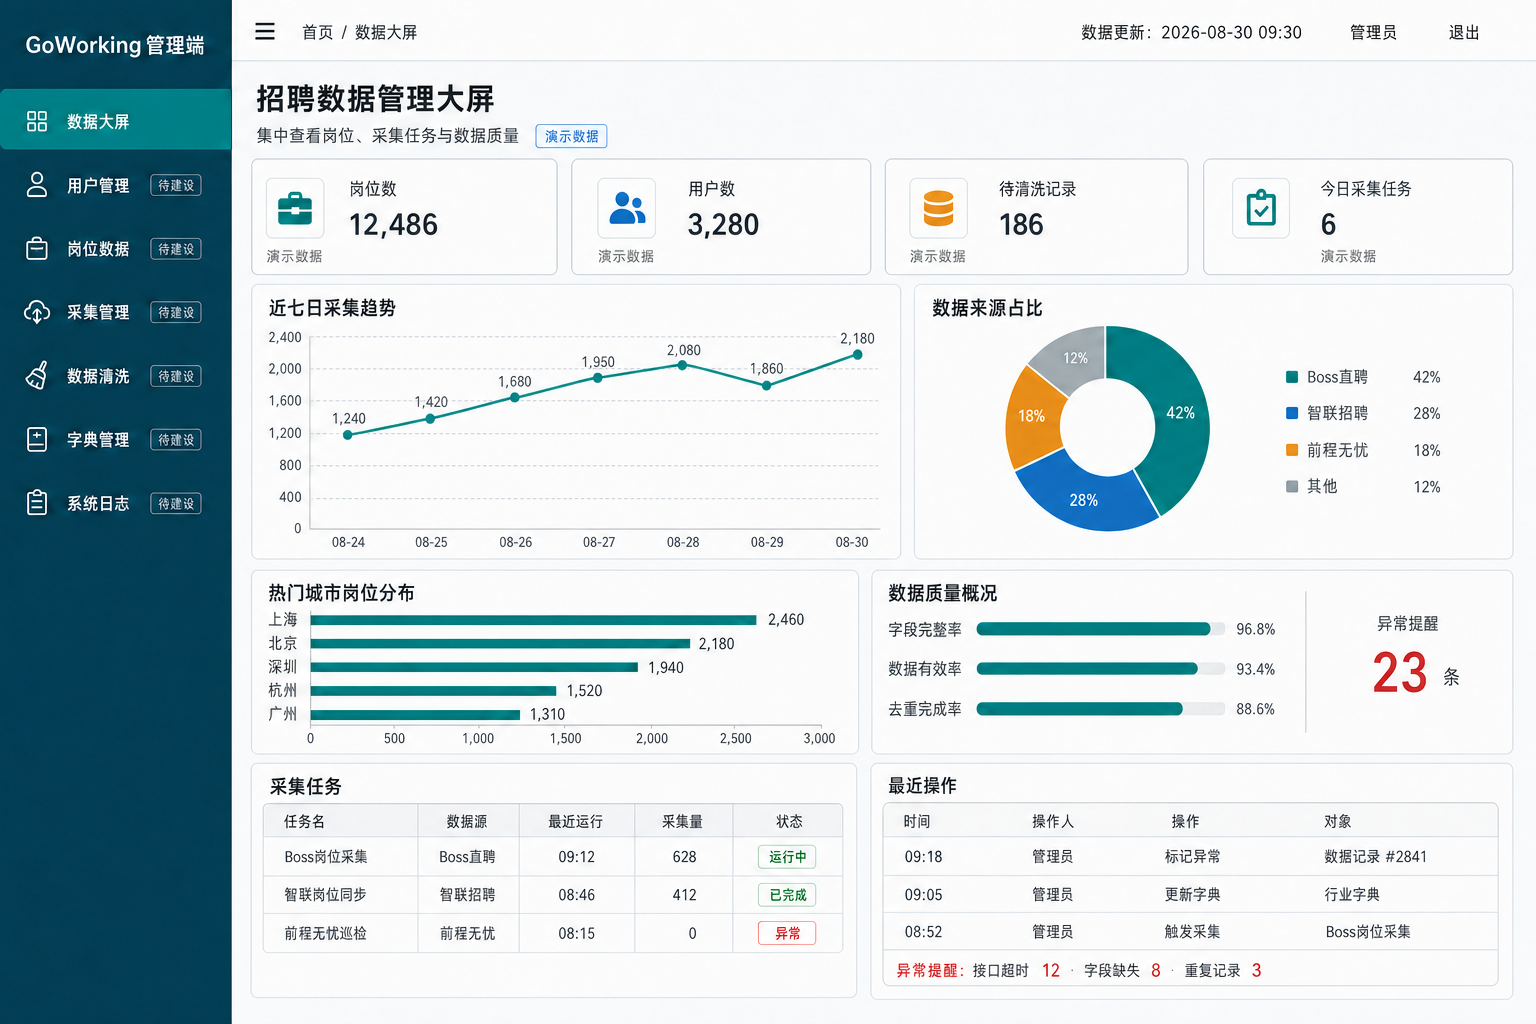
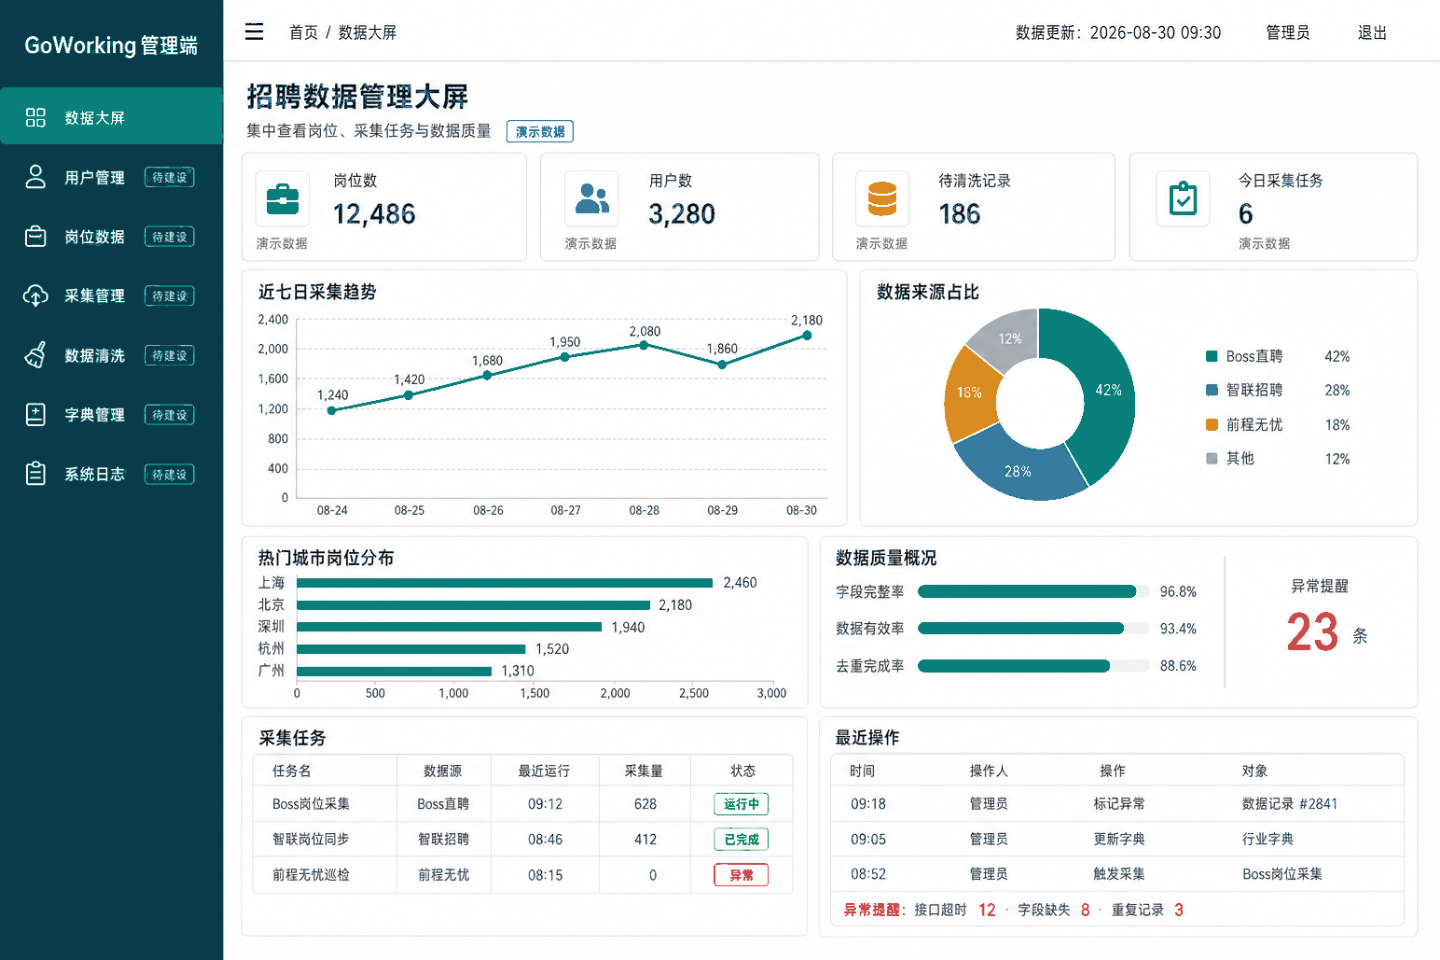
fix: normalize admin interface concepts

diff --git a/docs/design-concepts/admin-fidelity-ledger.md b/docs/design-concepts/admin-fidelity-ledger.md
@@ -2,9 +2,9 @@
 
 | Area | Accepted concept evidence | Implementation evidence | Fix or deviation |
 | --- | --- | --- | --- |
-| Login composition | Accepted by the user: 58/42 deep-teal visual and white form split, centered form without a floating card or decorative badge. | Pending implementation. | None recorded. |
-| Dashboard shell | Accepted by the user: 224px navigation, 64px white top bar, exact menu order, and dense content canvas. | Pending implementation. | None recorded. |
+| Login composition | Accepted composition and copy, normalized to a 1440×840 PNG. The raster divider is fixed at x=835: 835px left and 605px right, the nearest whole-pixel representation of 58/42. The form remains centered without a floating card or decorative badge. | Pending implementation. | Deterministic no-crop normalization from 1642×958: source left 963px → final 835px; source right 679px → final 605px; source height 958px → final 840px. |
+| Dashboard shell | Accepted composition and copy, normalized to a 1440×960 PNG with an exact 224px navigation region, exact 64px white top bar, exact menu order, and dense content canvas. | Pending implementation. | Deterministic no-crop normalization from 1536×1024: sidebar 232px → 224px; content 1304px → 1216px; header remains 64px; body 960px → 896px. |
 | Typography | Accepted by the user: compact Chinese admin typography with restrained heading, body, table, and metric scales. | Pending implementation. | None recorded. |
-| Palette and borders | Accepted by the user: deep teal navigation, teal accent, pale gray canvas, subtle borders, and semantic warning/exception colors. | Pending implementation. | The task metric icon was corrected from purple to approved teal before acceptance. |
+| Palette and borders | Accepted exact tokens and roles: `#087F7A` primary actions, selection, and primary charts; `#093B4B` sidebar and brand field; `#F3F7F8` page background; `#FFFFFF` panels and form field; `#16323D` main text; `#647B84` secondary text; `#91A3AA` weak text; `#DCE6E9` borders and dividers; `#138A63` success; `#D98B22` warning; `#C94C4C` exception; `#397A9F` information. | Pending implementation. | Visible tonal ramps were removed: teal, navigation, chart, icon, action, and semantic surfaces are flat approved colors. The earlier purple task icon remains corrected to `#087F7A`. |
 | Charts and data density | Accepted by the user: four metrics, seven-day trend, source donut, city bars, quality overview, task table, activity table, and visible demonstration-data labeling. | Pending implementation. | None recorded. |
-| Responsive behavior | Accepted desktop concepts establish the 1440px reference; responsive behavior follows the approved written spec. | Pending implementation. | Verify collapsed navigation at 1024px and mobile layout at 390px during browser QA. |
+| Responsive behavior | Both accepted desktop concepts now establish a deterministic 1440px-wide reference. Responsive behavior follows the approved written spec. | Pending implementation. | Verify collapsed navigation at 1024px and mobile layout at 390px during browser QA. |
